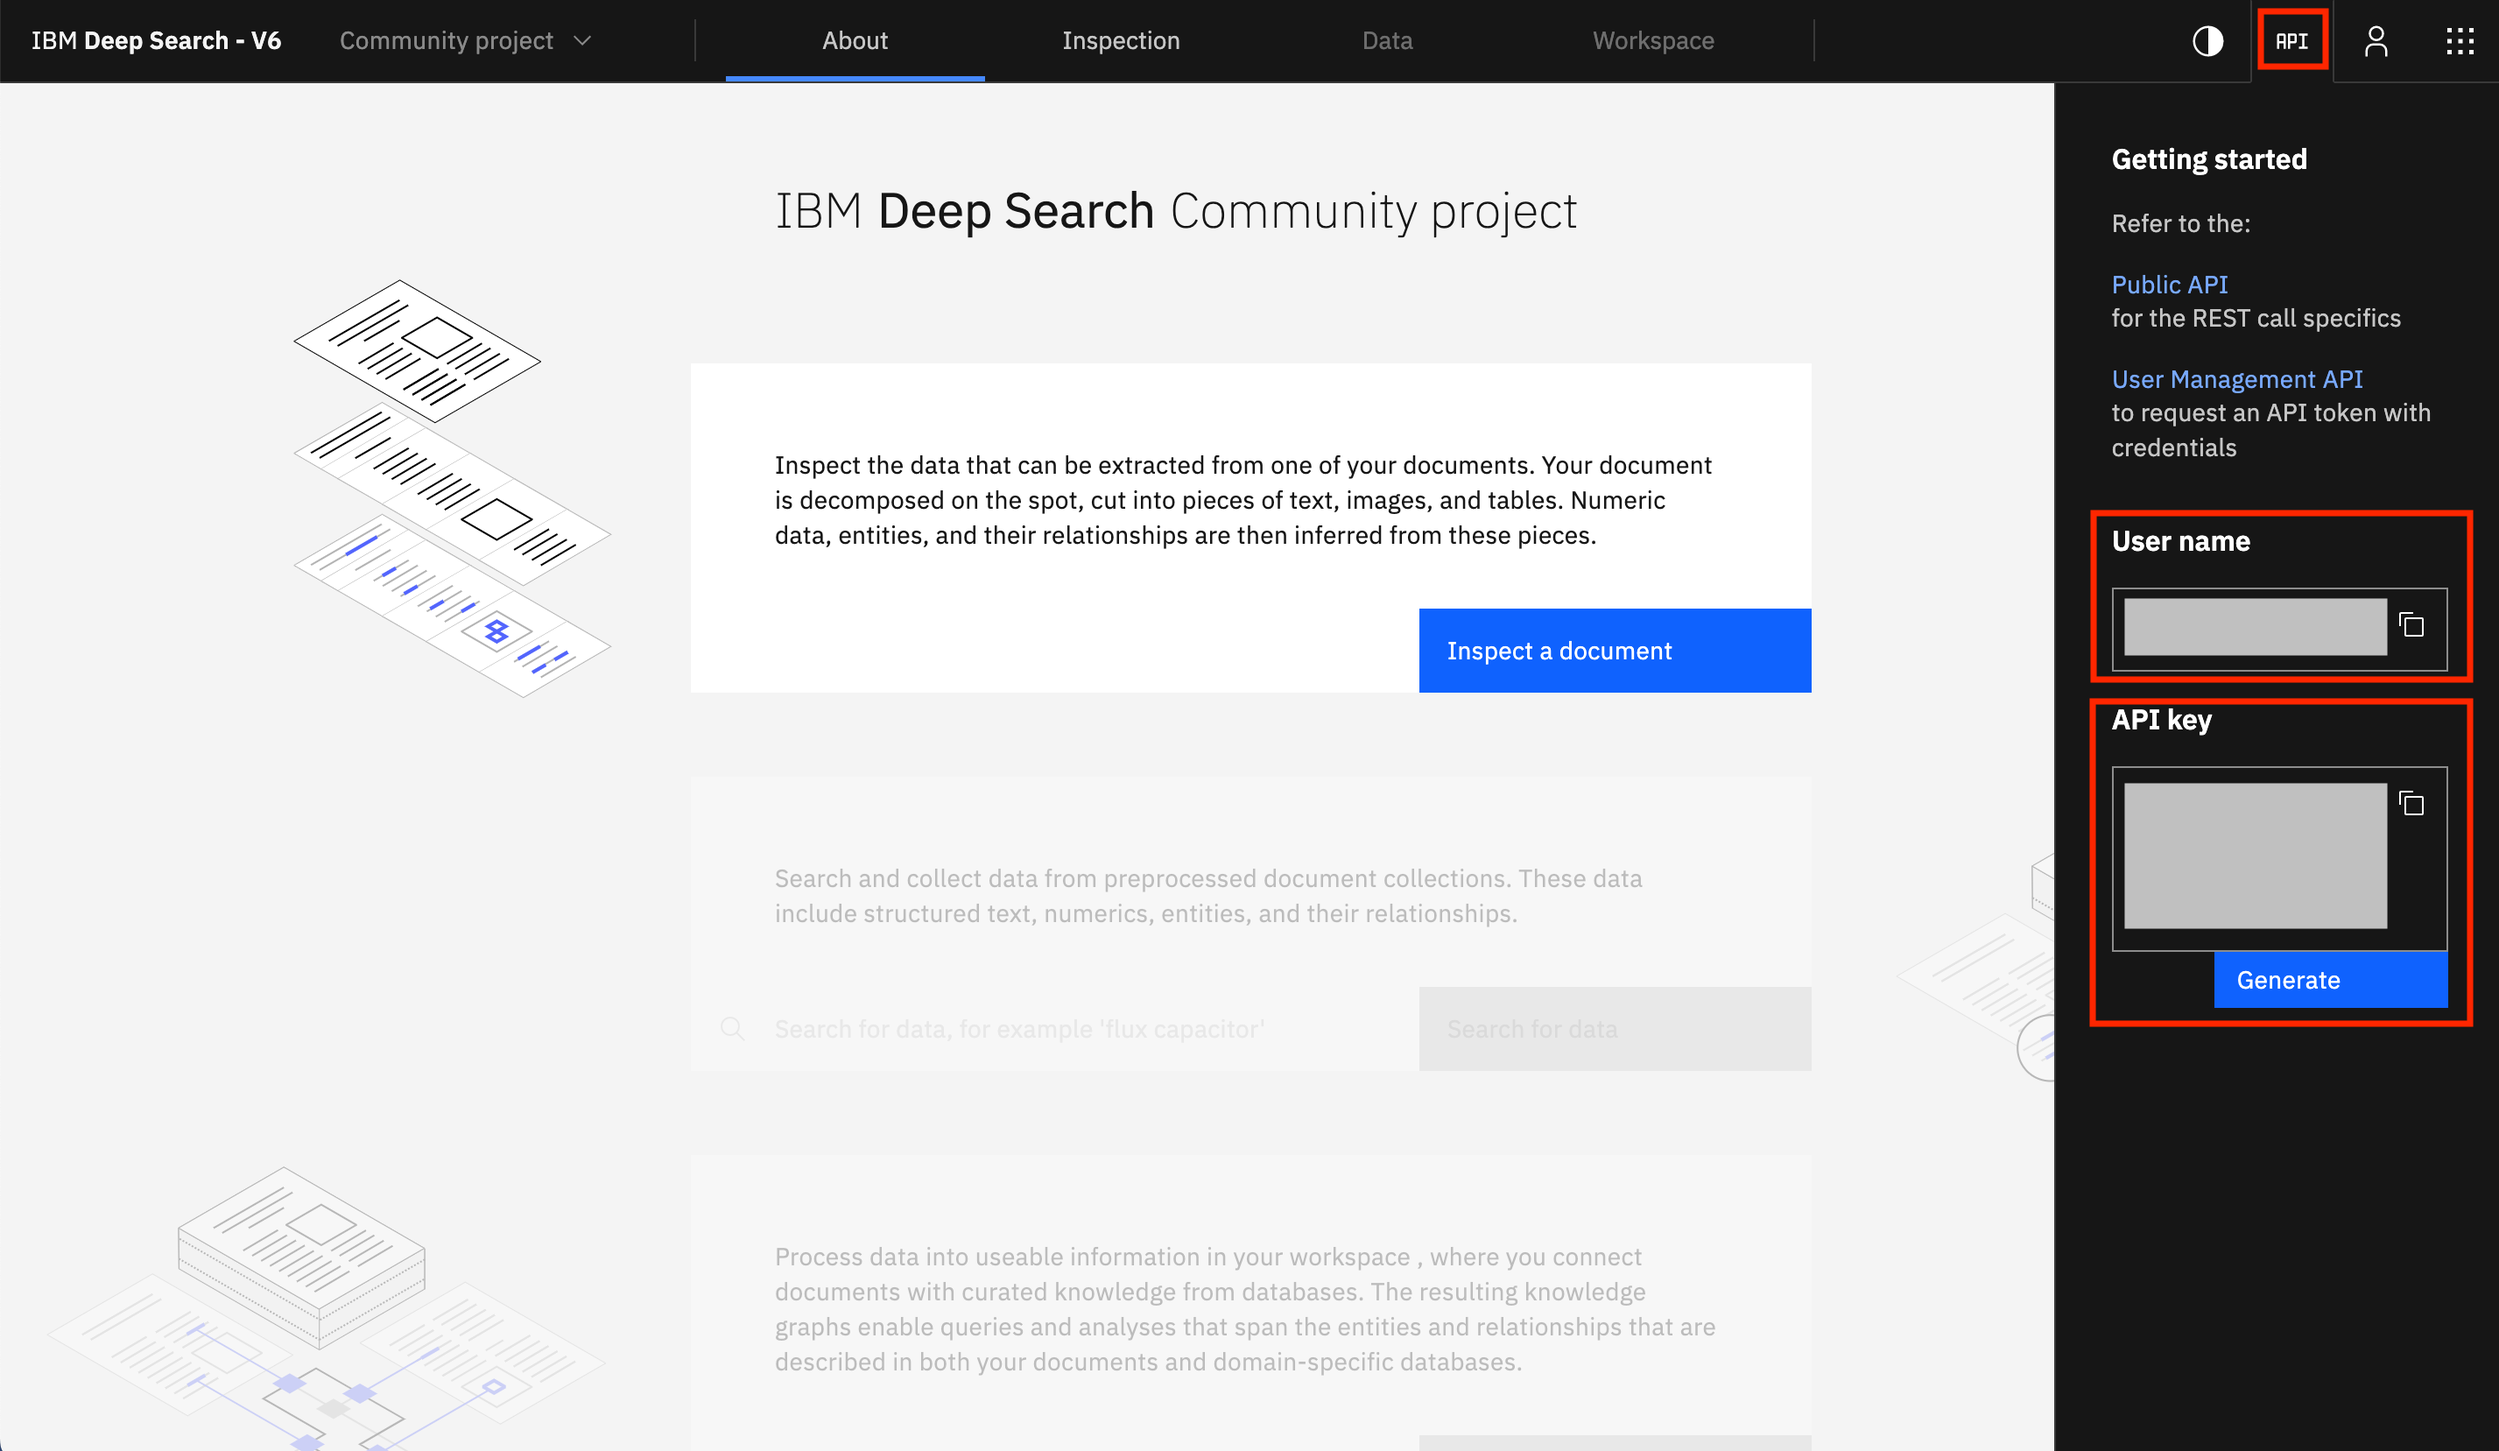
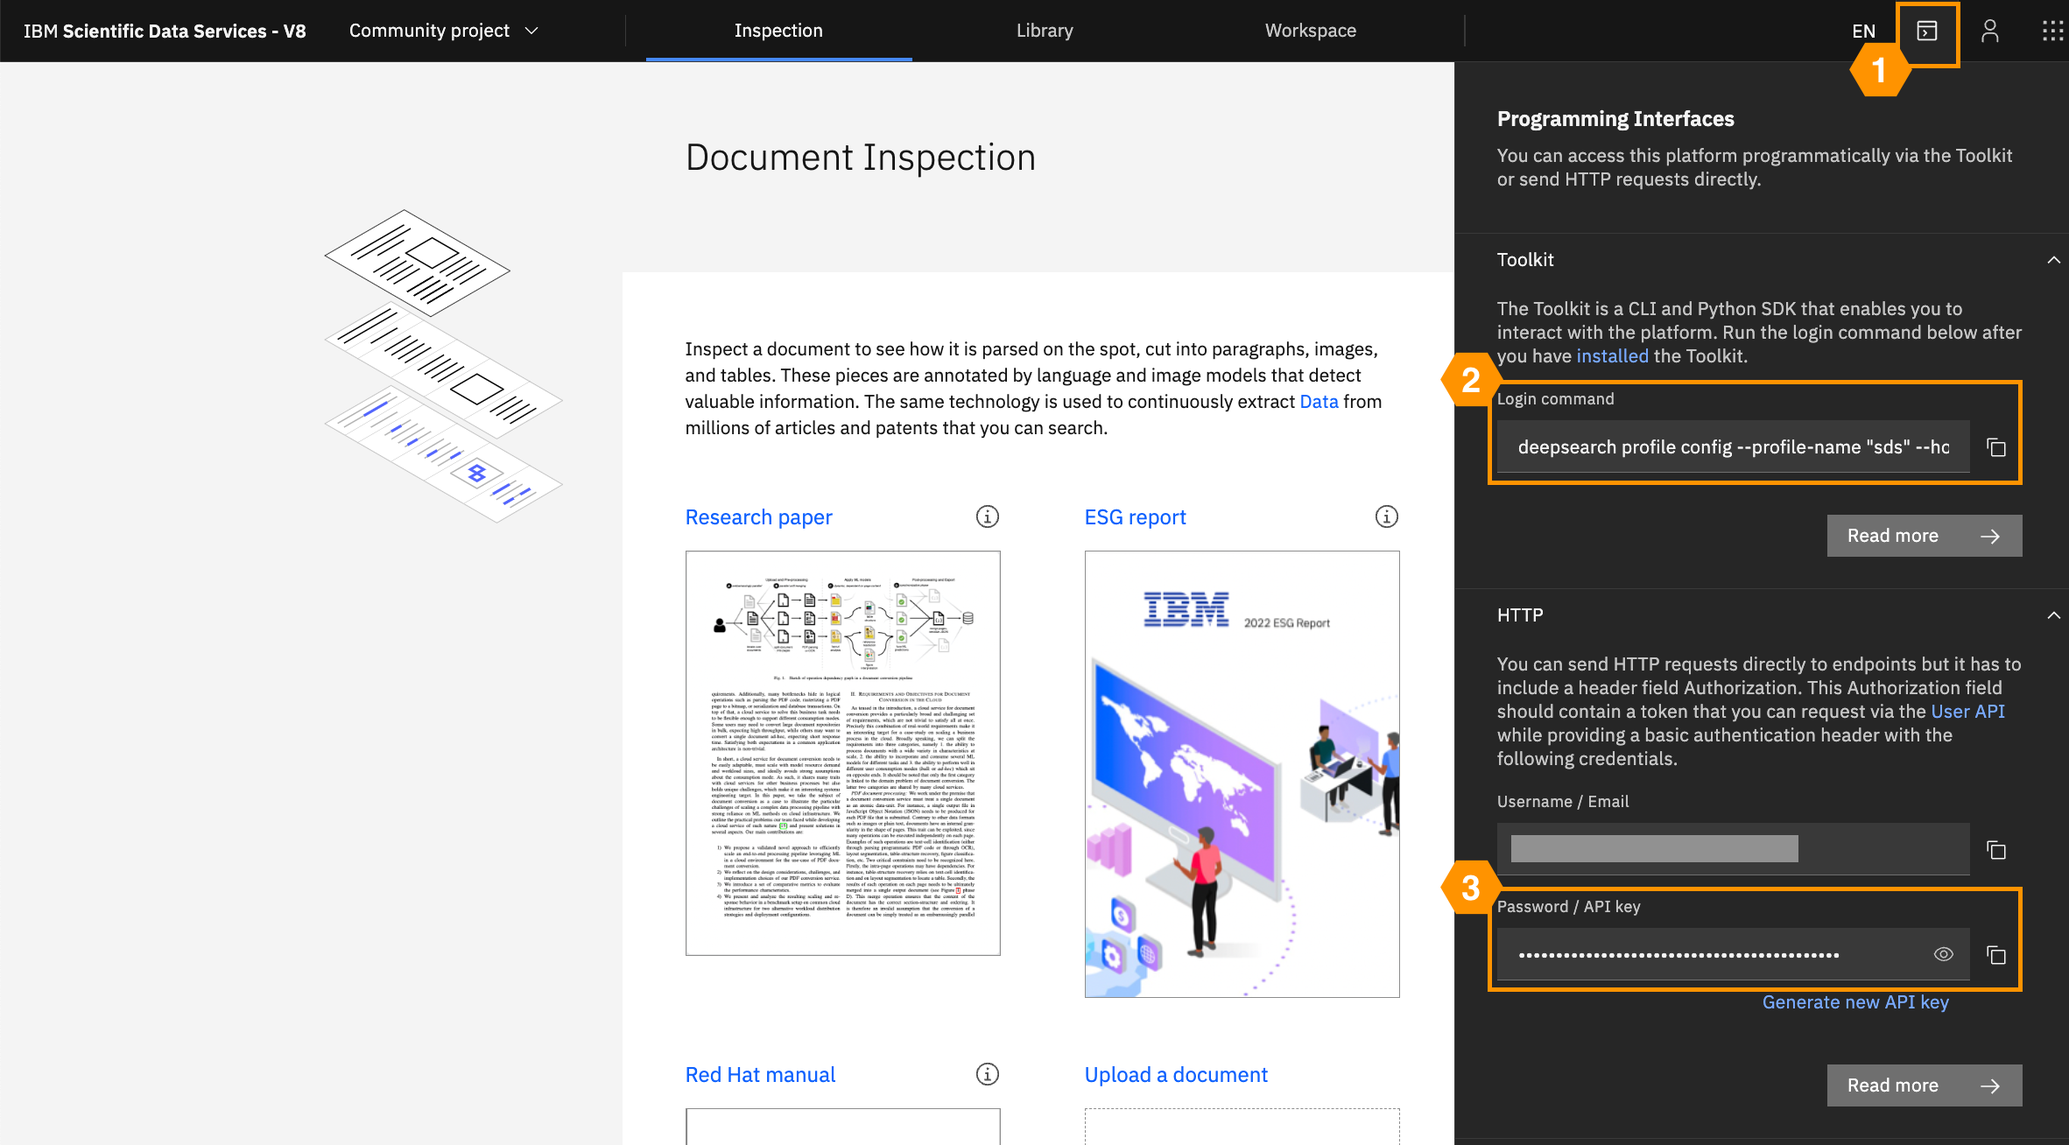
docs: update getting-started guide (#149)

diff --git a/docs/getting_started/index.md b/docs/getting_started/index.md
@@ -1,31 +1,12 @@
-### Get your credentials
+### Set up your profile
 
-After registering with [Deep Search](https://ds4sd.github.io/), you can obtain your authentication data by clicking on "API" in the top-right corner. Your credentials consist of your `User name` and your `API key`.
+After logging in to the Deep Search UI, you can set up your profile as shown below:
+
+1. click on the "Toolkit / API" icon on the top-right corner
+2. from the "Toolkit" section, copy the command and run on your terminal
+3. when prompted for the API key, copy it from the "HTTP" section
 
 ![Deep Search Authentication Info](../images/deepsearch-auth-info.png)
-
-
----
-### Set up a profile
-
-=== "CLI"
-    Set up a [profile][profiles] using `deepsearch profile config`.
-    In its basic form it looks like this:
-    <div class="termy">
-
-    ```console
-    $ deepsearch profile config
-    Host: https://ds.example.com  # the Deep Search instance you are using
-    Username: name@example.com    # your username
-    Api key: (hidden)             # your API key
-    ```
-
-    </div>
-
-    By providing a profile name (via option `--profile-name`) you can configure multiple
-    different profiles, which you can then easily switch between and manage.
-
-    For details, check [Profiles][profiles].
 
 ### Validate the setup
 
